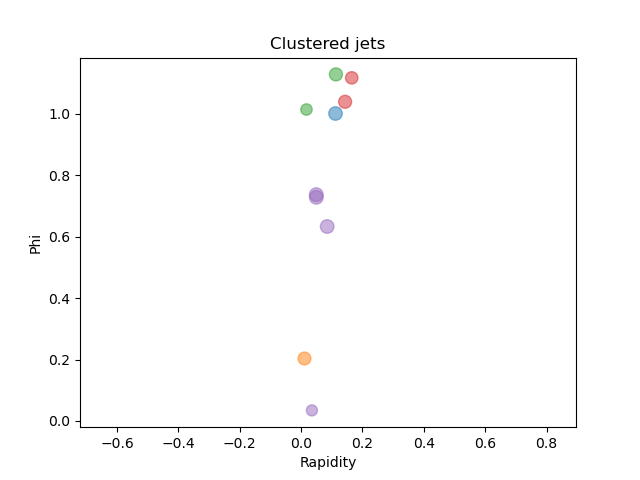
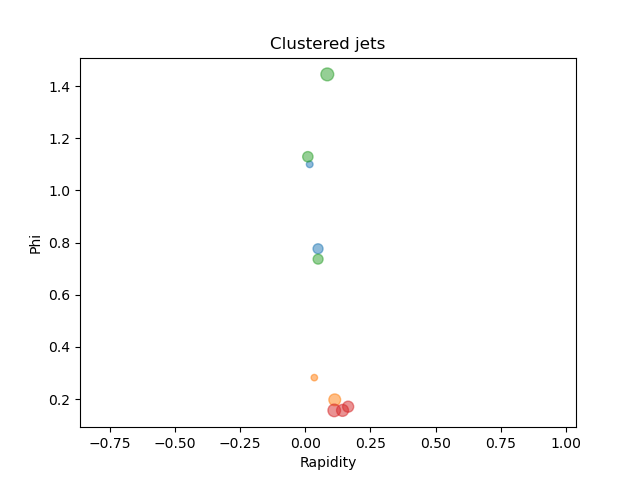
better README

diff --git a/README.md b/README.md
@@ -46,8 +46,8 @@ Setting up and making some dummy data from a pretend event;
 ```python3
 import numpy as np
 from spectraljet import Components, FormJets
-particle_pxs = np.array([99.38, 23.83, 15.44, 35.53, 91.63, 97.01, 40.14, 23.39, 60.08, 69.84])
-particle_pys = np.array([90.21, 0.82, 24.83, 75.09, 81.73, 71.23, 68.33, 48.03, 94.47, 14.47])
+particle_pxs = np.array([9.38, 2.83, 1.44, 35.53, 9.63, 9.01, 40.14, 23.39, 60.08, 6.84])
+particle_pys = np.array([9.21, 0.82, 2.83, 7.09, 8.73, 71.23, 6.33, 4.03, 9.47, 14.47])
 particle_pzs = np.array([15.90, 5.11, 9.03, 83.61, 34.53, 52.26, 52.26, 91.19, 56.76, 5.39])
 particle_energies = np.array([321.36, 145.06, 515.77, 739.28, 695.15, 616.06, 366.81, 557.71, 510.49, 518.79])
 ```
